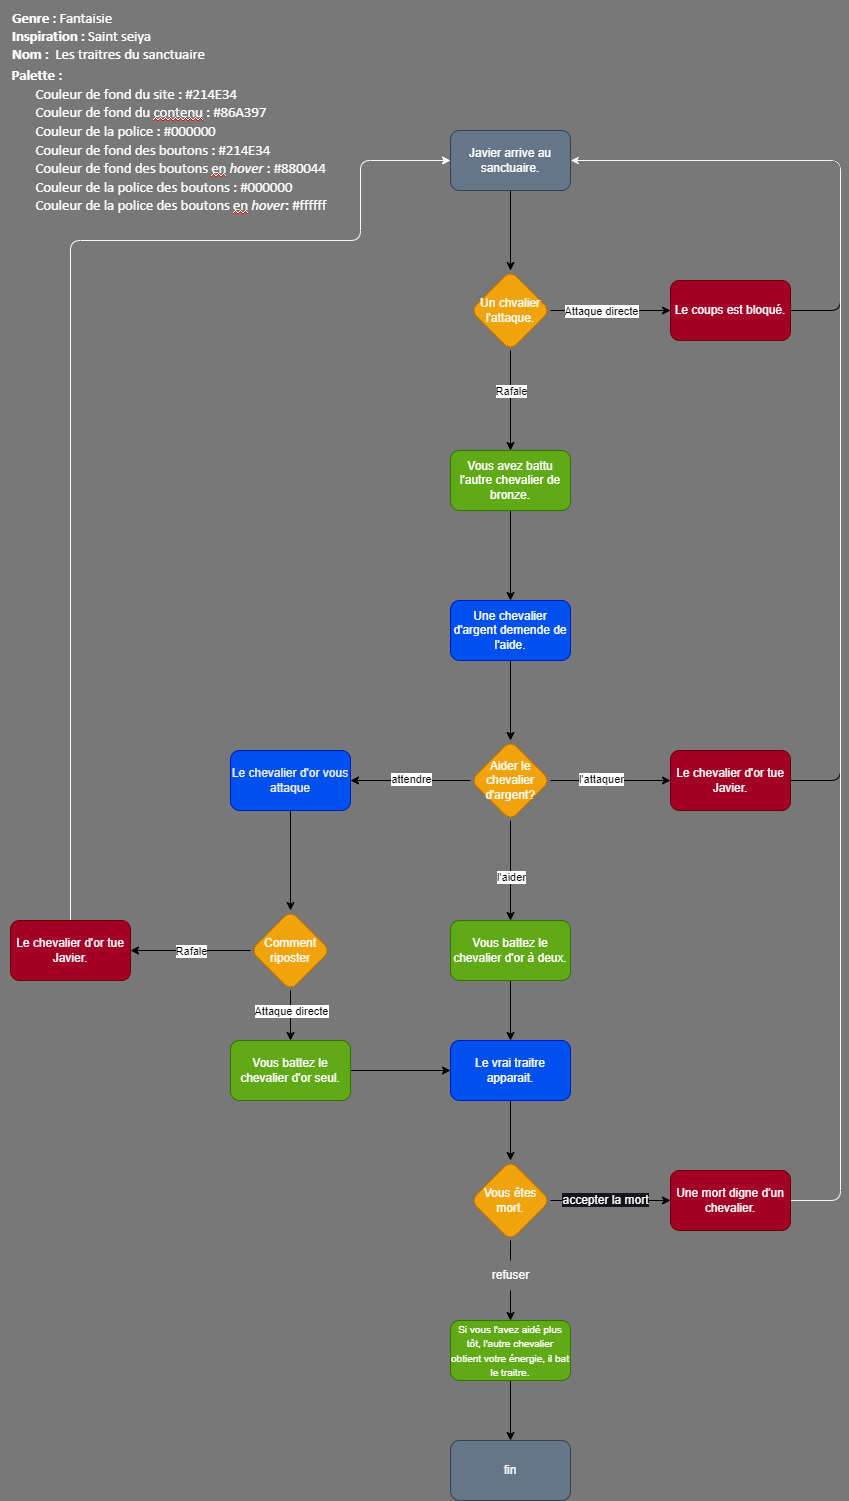
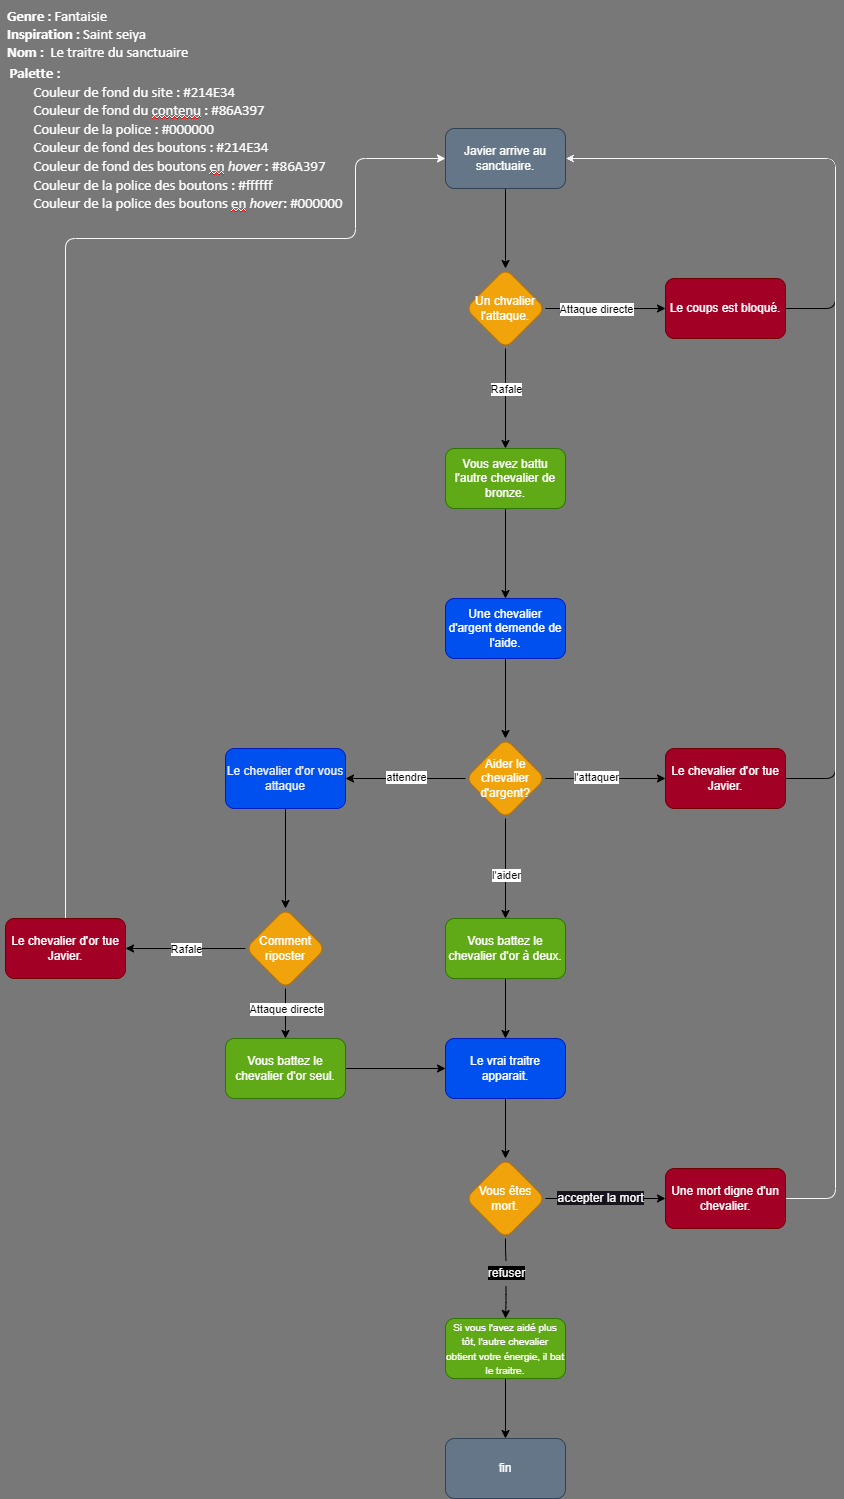
CHONKY PUSH

diff --git a/assets/js/script.js b/assets/js/script.js
@@ -14,13 +14,13 @@ const chapters = {
         description: "Dès son arrivée au sanctuaire, Javier est attaqué par un autre chevalier. Celui-ci semble porter un bouclier, comment Javier compte-t-il riposter?",
         image: "./assets/images/ambuscade.jpeg",
         boutons: [{
-                titre: 'Un coup puissant, direct',
-                destination: 'bloque'
-            },
-            {
-                titre: 'Une rafale de coups rapides',
-                destination: 'rafale'
-            }
+            titre: 'Un coup puissant, direct',
+            destination: 'bloque'
+        },
+        {
+            titre: 'Une rafale de coups rapides',
+            destination: 'rafale'
+        }
         ]
     },
 
@@ -48,7 +48,7 @@ const chapters = {
 
     rencontre: {
         titre: "Rencontre agitée",
-        description: "Alors qu'il continue d'avancer dans le sanctuaire, se demandant comment il pourrait trouver le reste du «Nous» qu'a mentioné le chevalier qu'il a battu, au loin, Javier vois un autre chevalier de bronze fuire un chevalier d'or, le plus haut rang possible pour un chevalier, il est même plus fort la garde raprochée d'Athéna.",
+        description: "Alors qu'il continue d'avancer dans le sanctuaire, se demandant comment il pourrait trouver le reste du «Nous» qu'a mentioné le chevalier qu'il a battu, au loin, Javier vois un autre chevalier de bronze fuire un chevalier d'or, le plus haut rang possible pour un chevalier, il est même plus fort la garde rapprochée d'Athéna.",
         image: "./assets/images/rencontre.jpeg",
         boutons: [{
             titre: '«Que ce passe-t-il?»',
@@ -61,17 +61,17 @@ const chapters = {
         description: "Le chevalier de bronze supplie Javier de l'aider puisque seul, il ne peut rien contre un chevalier d'or, que fait Javier, devrait-il le croire?",
         image: "./assets/images/or.jpg",
         boutons: [{
-                titre: 'Attaquer le chevalier de bronze',
-                destination: 'attaquer'
-            },
-            {
-                titre: "Attaquer le chevalier d'or",
-                destination: 'aide'
-            },
-            {
-                titre: 'Ne pas prendre de décision hâtive',
-                destination: 'attendre'
-            }
+            titre: 'Attaquer le chevalier de bronze',
+            destination: 'attaquer'
+        },
+        {
+            titre: "Attaquer le chevalier d'or",
+            destination: 'aide'
+        },
+        {
+            titre: 'Ne pas prendre de décision hâtive',
+            destination: 'attendre'
+        }
         ]
     },
 
@@ -102,13 +102,13 @@ const chapters = {
         description: "«T'es un peu lent, toi.» Dis le chevalier d'or en s'aprochant. Javier n'as plus le temps d'hésiter le chevalier d'or n'est clairement pas de son côté mais que peut-il faire contre le plus puissant chevalier du sanctuaire?",
         image: "./assets/images/riposte.jpg",
         boutons: [{
-                titre: 'Un coup puissant, direct',
-                destination: 'directe'
-            },
-            {
-                titre: 'Une rafale de coups rapides',
-                destination: 'desespere'
-            }
+            titre: 'Un coup puissant, direct',
+            destination: 'directe'
+        },
+        {
+            titre: 'Une rafale de coups rapides',
+            destination: 'desespere'
+        }
         ]
     },
 
@@ -125,10 +125,10 @@ const chapters = {
 
     directe: {
         titre: "Précis",
-        description: "Prennant avantage du fait que le chevalier d'or ne le prends clairement pas au sérieux, Javier se jette dans la gueule du loup à la vitesse de l'éclair et frappe le chevalier d'or dans le ventre de toutes ses forces. Le chevalier d'or est déstabilisé, ce qui laisse assez de temps à Javier pour porter un coup dévastateur à la gorge de son adversaire, le mettant hors d'état de nuire. <br> «Tu as battu mon chevalier d'or à toi tous seul, impressionant...»",
+        description: "Prennant avantage du fait que le chevalier d'or ne le prends clairement pas au sérieux, Javier se jette dans la gueule du loup à la vitesse de l'éclair et frappe le chevalier d'or dans le ventre de toutes ses forces. Le chevalier d'or est déstabilisé, ce qui laisse assez de temps à Javier pour porter un coup dévastateur à la gorge de son adversaire, le mettant hors d'état de nuire. «Tu as battu mon chevalier d'or à toi tous seul, impressionant...»",
         image: "./assets/images/directe.jpg",
         boutons: [{
-            titre: '«Qui vas là?»',
+            titre: '«Qui va là?»',
             destination: 'meurtre'
         }]
     },
@@ -136,10 +136,10 @@ const chapters = {
     //route avec allié
     aide: {
         titre: "Deux contre un",
-        description: "Ensemble, Javier et l'autre chevalier de bronze qui se présente sous le nom de Lancelot combattent le chevalier d'or et, ensemble, ils arrivent à défaire leur puissant ennemi. Lancelot explique ensuite la raison pour laquelle le chevalier d'or le chassait: il a découvert l'identité du traitre original et que le chevalier d'or avait rejoint sa cause. <br> «Dis donc, tu est drôlement bien renseigné, toi...»",
+        description: "Ensemble, Javier et l'autre chevalier de bronze qui se présente sous le nom de Lancelot combattent le chevalier d'or et, ensemble, ils arrivent à défaire leur puissant ennemi. Lancelot explique ensuite la raison pour laquelle le chevalier d'or le chassait: il a découvert l'identité du traitre original et que le chevalier d'or avait rejoint sa cause. «Dis donc, tu est drôlement bien renseigné, toi...»",
         image: "./assets/images/aide.jpg",
         boutons: [{
-            titre: '«Qui vas là?»',
+            titre: '«Qui va là?»',
             destination: 'meurtre'
         }]
     },
@@ -160,13 +160,13 @@ const chapters = {
         description: "La garde raprochée d'Athéna, les hommes et femmes en qui Athéna à entièrement confience. Des anciens chevaliers qui sont suposés de n'avoir qu'une chose en commun: une loyauté sans faille envers la Déesse. Finalement, l'homme le plus proche de la déesse sera celui qui causera sa perte.",
         image: "./assets/images/traitre.jpg",
         boutons: [{
-                titre: "C'est fini...",
-                destination: 'mort'
-            },
-            {
-                titre: '«Non!»',
-                destination: 'twist'
-            }
+            titre: "C'est fini...",
+            destination: 'mort'
+        },
+        {
+            titre: '«Non!»',
+            destination: 'twist'
+        }
         ]
     },
 
@@ -212,7 +212,7 @@ function goToChapter(chapter) {
 
         titreRemplace.textContent = chapters[chapter].titre;
         descriptionRemplace.textContent = chapters[chapter].description;
-        imageRemplace.innerHTML = `<img src="${chapters[chapter].image}" class="${chapters[chapter]}">`;
+        imageRemplace.innerHTML = `<img src="${chapters[chapter].image}" class="${chapter}">`;
         // Sélectionne le div .boutons 
         const boutons = document.querySelector('#option');
         // Supprime tous les boutons enfants du div .boutons 

diff --git a/index.html b/index.html
@@ -1,16 +1,23 @@
 <!DOCTYPE html>
 <html lang="en">
+
 <head>
     <meta charset="UTF-8">
     <meta name="viewport" content="width=device-width, initial-scale=1.0">
     <title>Document</title>
+    <script defer src="assets/js/script.js"></script>
     <link rel="stylesheet" href="assets/css/styles.css">
 </head>
+
 <body>
     <div id="jeu">
         <div id="logo">Le traître du sanctuaire</div>
         <div id="chapitre">Lorem ipsum dolor sit amet</div>
-        <p id="para">consectetur adipiscing elit, sed do eiusmod tempor incididunt ut labore et dolore magna aliqua. Ut enim ad minim veniam, quis nostrud exercitation ullamco laboris nisi ut aliquip ex ea commodo consequat. Duis aute irure dolor in reprehenderit in voluptate velit esse cillum dolore eu fugiat nulla pariatur. Excepteur sint occaecat cupidatat non proident, sunt in culpa qui officia deserunt mollit anim id est laborum.</p>
+        <p id="para">consectetur adipiscing elit, sed do eiusmod tempor incididunt ut labore et dolore magna aliqua. Ut
+            enim ad minim veniam, quis nostrud exercitation ullamco laboris nisi ut aliquip ex ea commodo consequat.
+            Duis aute irure dolor in reprehenderit in voluptate velit esse cillum dolore eu fugiat nulla pariatur.
+            Excepteur sint occaecat cupidatat non proident, sunt in culpa qui officia deserunt mollit anim id est
+            laborum.</p>
         <div id="image"></div>
         <div id="option">
             <div id="button1" class="opt 1" role="button">Lorem ipsum</div>
@@ -18,6 +25,6 @@
             <div id="button3" class="opt 3" role="button">Lorem ipsum</div>
         </div>
     </div>
-    <script src="assets/js/script.js"></script>
 </body>
+
 </html>

diff --git a/assets/css/styles.css b/assets/css/styles.css
@@ -29,6 +29,7 @@ body {
     justify-content: flex-start;
     align-items: center;
     box-shadow: 0px 0px 10px 0px black;
+    color: #000;
 }
 
 #logo {
@@ -68,6 +69,40 @@ body {
     align-items: center;
 }
 
+.debut,
+.bloque,
+.attaquer,
+.desespere,
+.mort,
+.attendre,
+.directe,
+.meurtre {
+    height: 25vw;
+    width: 100%;
+}
+
+.ambuscade,
+.fin,
+.rafale,
+.rencontre,
+.aide {
+    height: 30vw;
+    width: 100%;
+}
+
+.dilemme,
+.riposte,
+.traitre {
+    height: 30vw;
+    width: 90%;
+}
+
+.twist {
+    height: 40vw;
+    width: 90%;
+    align-self: flex-end;
+}
+
 /*Ref: https://getcssscan.com/css-buttons-examples */
 .opt {
     appearance: none;
@@ -79,8 +114,7 @@ body {
     color: #fff;
     cursor: pointer;
     display: inline-block;
-    font-family: Inter, -apple-system, system-ui, "Segoe UI", Helvetica, Arial, sans-serif;
-    font-size: 80%;
+    font-size: 0.8vw;
     font-weight: 600;
     letter-spacing: normal;
     line-height: 1.5;
@@ -107,9 +141,4 @@ body {
     transition-duration: .35s;
     border: 1px solid #000;
     color: #000;
-}
-
-.debut{
-    height: 1px;
-    width: 1px;
 }

diff --git a/readme.md b/readme.md
@@ -6,7 +6,7 @@
 
 **Inspiration**: Saint seiya
 
-**Palette de couleurs**: [coolors.co](https://coolors.co/ef6f6c-880044-214e34-86a397-361d2e)
+**Palette de couleurs**: [coolors.co](https://coolors.co/000000-ffffff-214e34-86a397)
 
 ### Diagramme
 ![diagramme](assets/drawio/schema.png)
